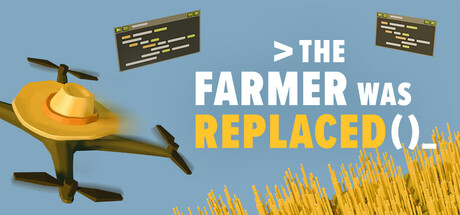
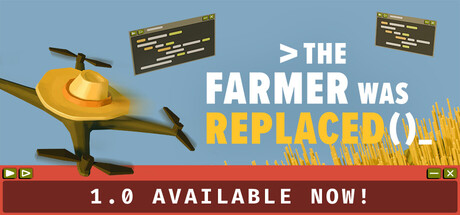
Update generated game content

diff --git a/README.md b/README.md
@@ -237,9 +237,9 @@ SpaceTraders is a space-themed economic game with HTTP endpoints for automating 
 <img align="right" width="215" height="215" src="./generated/images/the-farmer-was-replaced.jpg" />
 
 Program and optimize a drone to automate a farm and watch it do the work for you. Collect resources to unlock better technology and become the most efficient farmer in the world. Improve your problem solving and coding skills.
-* Genre: Casual, Indie, Simulation, Strategy, Early Access
+* Genre: Casual, Indie, Simulation, Strategy
 * Available for <img src="./assets/windows.svg" alt="Windows" title="Windows" width="15"/>
-* Release: Friday, 10. February 2023
+* Release: Friday, 10. October 2025
 * [Website of The Farmer Was Replaced](https://www.metaroot.ch/press-kit/the-farmer-was-replaced)
 * [The Farmer Was Replaced @ Steam](https://store.steampowered.com/app/2060160/)
 
